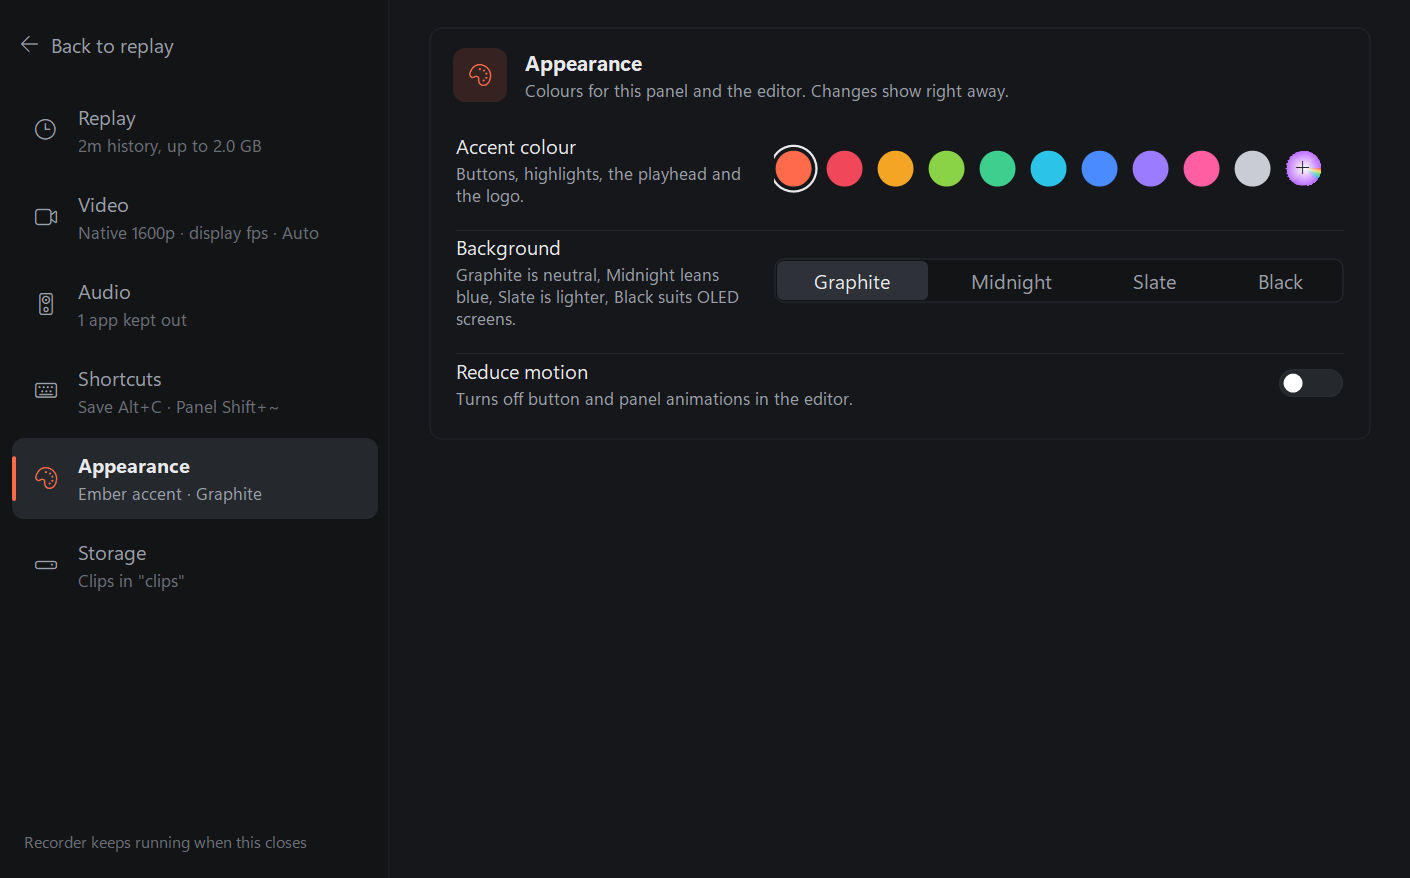
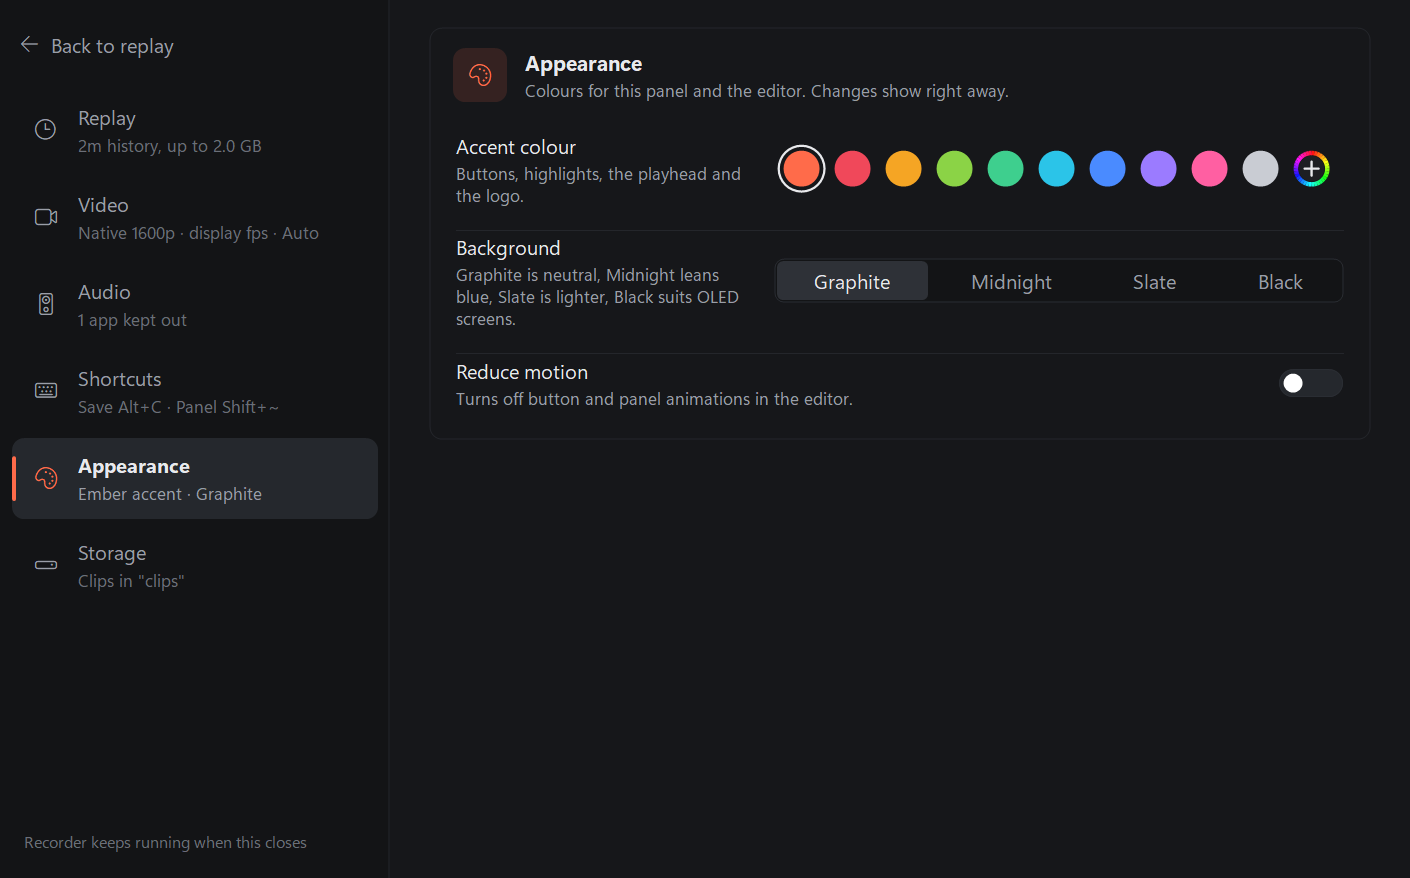
1.0.0 packaging: Windows installer and portable zip, Linux tar.gz and deb; Linux display/size and portable editor data fixes

Changed region(s): [[0.5305, 0.1538, 0.9674, 0.2153]]

diff --git a/src/ZenithClipper.Windows/Ui/Widgets.cs b/src/ZenithClipper.Windows/Ui/Widgets.cs
@@ -719,15 +719,17 @@ sealed class AccentSwatches : ZControl, IMeasured
     int Gap => Theme.S(8);
     List<Rectangle> Compute(int width)
     {
-        var list = new List<Rectangle>(); int x = 0, y = Theme.S(4);
+        // Inset by the selection ring's width so the ring around the first swatch is never clipped.
+        int inset = Theme.S(5);
+        var list = new List<Rectangle>(); int x = inset, y = inset;
         for (int i = 0; i < Count; i++)
         {
-            if (x > 0 && x + D > width) { x = 0; y += D + Gap; }
+            if (x > inset && x + D + inset > width) { x = inset; y += D + Gap; }
             list.Add(new Rectangle(x, y, D, D)); x += D + Gap;
         }
         return list;
     }
-    public int MeasureHeight(int width) => Compute(width).Max(b => b.Bottom) + Theme.S(4);
+    public int MeasureHeight(int width) => Compute(width).Max(b => b.Bottom) + Theme.S(5);
     protected override void OnResize(EventArgs e) { base.OnResize(e); boxes.Clear(); boxes.AddRange(Compute(Width)); }
     bool IsCustom => Appearance.AccentPresets.All(p => !p.Hex.Equals(selected, StringComparison.OrdinalIgnoreCase));
     protected override void OnMouseMove(MouseEventArgs e) { base.OnMouseMove(e); int h = boxes.FindIndex(b => b.Contains(e.Location)); if (h != hover) { hover = h; Invalidate(); } }
@@ -740,6 +742,12 @@ sealed class AccentSwatches : ZControl, IMeasured
         if (dialog.ShowDialog(FindForm()) == DialogResult.OK) Pick($"#{dialog.Color.R:X2}{dialog.Color.G:X2}{dialog.Color.B:X2}");
     }
     void Pick(string hex) { SetSelected(hex); Picked?.Invoke(selected); }
+    static (int R, int G, int B) Hue(double degrees)
+    {
+        double h = degrees / 60, x = 1 - Math.Abs(h % 2 - 1);
+        (double r, double g, double b) = (int)h switch { 0 => (1d, x, 0d), 1 => (x, 1d, 0d), 2 => (0d, 1d, x), 3 => (0d, x, 1d), 4 => (x, 0d, 1d), _ => (1d, 0d, x) };
+        return ((int)(r * 235 + 20), (int)(g * 235 + 20), (int)(b * 235 + 20));
+    }
     protected override void Draw(Graphics g)
     {
         if (boxes.Count != Count) { boxes.Clear(); boxes.AddRange(Compute(Width)); }
@@ -752,14 +760,25 @@ sealed class AccentSwatches : ZControl, IMeasured
             var inner = RectangleF.Inflate(b, -Theme.S(1f), -Theme.S(1f));
             if (custom)
             {
-                if (IsCustom && Appearance.TryParse(selected, out var c)) using (var fill = new SolidBrush(Color.FromArgb(c.R, c.G, c.B))) g.FillEllipse(fill, inner);
+                // Custom: a thin hue ring around a dark centre with a plus, or the chosen colour once one is picked.
+                if (IsCustom && Appearance.TryParse(selected, out var c)) { using var fill = new SolidBrush(Color.FromArgb(c.R, c.G, c.B)); g.FillEllipse(fill, inner); }
                 else
                 {
-                    using var path = new GraphicsPath(); path.AddEllipse(inner);
-                    using var rainbow = new PathGradientBrush(path) { CenterColor = Color.White, SurroundColors = [Color.FromArgb(255, 90, 90), Color.FromArgb(255, 210, 80), Color.FromArgb(90, 220, 130), Color.FromArgb(80, 170, 255), Color.FromArgb(190, 110, 255)] };
-                    g.FillEllipse(rainbow, inner);
+                    for (int k = 0; k < 36; k++)
+                    {
+                        var (r, gg, bb) = Hue(k * 10);
+                        using var pen = new Pen(Color.FromArgb(r, gg, bb), Theme.S(3f));
+                        g.DrawArc(pen, RectangleF.Inflate(inner, -Theme.S(1.5f), -Theme.S(1.5f)), k * 10 - 90, 10.5f);
+                    }
+                    using var centre = new SolidBrush(Theme.Raised);
+                    g.FillEllipse(centre, RectangleF.Inflate(inner, -Theme.S(3.5f), -Theme.S(3.5f)));
                 }
-                Theme.Glyph(g, Glyphs.Add, 8f, IsCustom ? Theme.Ink : Color.FromArgb(40, 40, 40), Rectangle.Round(b));
+                var plus = RectangleF.Inflate(b, -b.Width * .32f, -b.Height * .32f);
+                using (var pen = new Pen(IsCustom ? Theme.Ink : Theme.Text, Theme.S(1.6f)) { StartCap = LineCap.Round, EndCap = LineCap.Round })
+                {
+                    g.DrawLine(pen, plus.Left, plus.Top + plus.Height / 2, plus.Right, plus.Top + plus.Height / 2);
+                    g.DrawLine(pen, plus.Left + plus.Width / 2, plus.Top, plus.Left + plus.Width / 2, plus.Bottom);
+                }
                 continue;
             }
             Appearance.TryParse(Appearance.AccentPresets[i].Hex, out var rgb);

diff --git a/src/ZenithClipper.Core/Settings.cs b/src/ZenithClipper.Core/Settings.cs
@@ -22,8 +22,10 @@ public sealed record Settings
     public bool NeedsPerAppAudio => ExcludedApps.Length > 0 || AppVolumes.Values.Any(v => v != 100);
     public string ClipDirectory { get; init; } = Path.Combine(AppPaths.Root, "clips");
     public string FfmpegPath { get; init; } = "";
-    public string LinuxDisplay { get; init; } = ":0.0";
-    public string LinuxVideoSize { get; init; } = "1920x1080";
+    /// <summary>X display to record; empty follows $DISPLAY (falls back to :0).</summary>
+    public string LinuxDisplay { get; init; } = "";
+    /// <summary>"auto" records the whole screen at its real size; or a fixed WIDTHxHEIGHT region from the top-left.</summary>
+    public string LinuxVideoSize { get; init; } = "auto";
     public string LinuxRenderNode { get; init; } = "/dev/dri/renderD128";
     public string ClipHotkey { get; init; } = "Alt+C";
     public string PanelHotkey { get; init; } = "Shift+~";
@@ -41,7 +43,7 @@ public sealed record Settings
         if (string.IsNullOrWhiteSpace(ClipDirectory)) throw new ArgumentException("Choose a clip directory.");
         if (AppVolumes is null || AppVolumes.Count > 64 || AppVolumes.Any(x => string.IsNullOrWhiteSpace(x.Key) || x.Key.Length > 128 || x.Value is < 0 or > 200)) throw new ArgumentException("App volumes must be 0–200% for at most 64 apps.");
         if (ExcludedApps is null || ExcludedApps.Length > 64 || ExcludedApps.Any(x => string.IsNullOrWhiteSpace(x) || x.Length > 128)) throw new ArgumentException("Invalid excluded app list.");
-        if (!System.Text.RegularExpressions.Regex.IsMatch(LinuxVideoSize, @"^\d{2,5}x\d{2,5}$")) throw new ArgumentException("Linux video size must look like 1920x1080.");
+        if (LinuxVideoSize != "auto" && !System.Text.RegularExpressions.Regex.IsMatch(LinuxVideoSize, @"^\d{2,5}x\d{2,5}$")) throw new ArgumentException("Linux video size must be auto or look like 1920x1080.");
         HotkeySpec.Parse(ClipHotkey); HotkeySpec.Parse(PanelHotkey);
         if (HotkeySpec.Parse(ClipHotkey) == HotkeySpec.Parse(PanelHotkey)) throw new ArgumentException("Hotkeys must differ.");
     }
@@ -65,7 +67,15 @@ public static class SettingsChanges
 
 public static class AppPaths
 {
-    public static string Root => Environment.GetEnvironmentVariable("ZENITHCLIPPER_HOME") ?? (File.Exists(Path.Combine(AppContext.BaseDirectory,"portable.flag")) ? Path.Combine(AppContext.BaseDirectory,"data") : Path.Combine(Environment.GetFolderPath(Environment.SpecialFolder.LocalApplicationData), "ZenithClipper"));
+    public static string Root => Environment.GetEnvironmentVariable("ZENITHCLIPPER_HOME") ?? PortableRoot() ?? Path.Combine(Environment.GetFolderPath(Environment.SpecialFolder.LocalApplicationData), "ZenithClipper");
+    /// <summary>Portable copies keep data beside the app. The editor lives in a sibling folder (editor\ next to windows\),
+    /// so it follows the app's portable.flag too; otherwise panel and editor would read different settings.</summary>
+    static string? PortableRoot()
+    {
+        foreach (var dir in new[] { AppContext.BaseDirectory, Path.Combine(AppContext.BaseDirectory, "..", "windows"), Path.Combine(AppContext.BaseDirectory, "..", "app") })
+            if (File.Exists(Path.Combine(dir, "portable.flag"))) return Path.GetFullPath(Path.Combine(dir, "data"));
+        return null;
+    }
     public static string Config => Path.Combine(Root, "settings.json");
     public static string Buffer => Path.Combine(Root, "buffer");
     public static JsonSerializerOptions Json { get; } = CoreJsonContext.CreateApplicationOptions();

diff --git a/src/ZenithClipper.Core/CaptureCommand.cs b/src/ZenithClipper.Core/CaptureCommand.cs
@@ -24,7 +24,15 @@ public static class CaptureCommand
         if(amfNative&&!amfGraph)args.AddRange(["-f","lavfi","-i",$"vsrc_amf=monitor_index={s.Monitor}:framerate={fps}"]);
         else if (!amfGraph && platform == "windows") args.AddRange(["-f", "lavfi", "-i", $"ddagrab=output_idx={s.Monitor}:framerate={fps}:draw_mouse=1"]);
         else if (!amfGraph && wayland) args.AddRange(["-thread_queue_size", "64", "-f", "matroska", "-i", "pipe:0"]);
-        else if (!amfGraph) args.AddRange(["-thread_queue_size", "64", "-f", "x11grab", "-framerate", $"{fps}", "-video_size", s.LinuxVideoSize, "-i", s.LinuxDisplay]);
+        else if (!amfGraph)
+        {
+            // Follow the session's display (many distros run the desktop on :1) and, by default, record the whole screen
+            // at whatever size it is; x11grab sizes itself to the screen when no -video_size is given.
+            string display = string.IsNullOrWhiteSpace(s.LinuxDisplay) ? Environment.GetEnvironmentVariable("DISPLAY") is { Length: > 0 } d ? d : ":0" : s.LinuxDisplay;
+            args.AddRange(["-thread_queue_size", "64", "-f", "x11grab", "-framerate", $"{fps}"]);
+            if (s.LinuxVideoSize != "auto") args.AddRange(["-video_size", s.LinuxVideoSize]);
+            args.AddRange(["-i", display]);
+        }
         foreach (var audioSource in audioSources)
         {
             args.AddRange(["-thread_queue_size", "128"]);

diff --git a/docs/release-notes/v1.0.0.md b/docs/release-notes/v1.0.0.md
@@ -1,0 +1,28 @@
+## ZenithClipper 1.0.0
+
+First public release. ZenithClipper keeps the last minutes of your screen in a rolling buffer and saves a clip when you press a hotkey, with a full clip editor built in.
+
+### Downloads
+
+| File | For |
+| --- | --- |
+| `ZenithClipper_1.0.0_x64-setup.exe` | **Windows 10/11, recommended.** Installs per user (no admin prompt), adds Start menu shortcuts, optional start with Windows. |
+| `ZenithClipper_1.0.0_x64-portable.zip` | Windows, no install. Unzip anywhere and run `ZenithClipper.cmd`. Settings and clips stay in the folder. |
+| `zenithclipper_1.0.0_amd64.deb` | Ubuntu, Debian and derivatives: `sudo apt install ./zenithclipper_1.0.0_amd64.deb` |
+| `zenithclipper-1.0.0-linux-x64.tar.gz` | Other Linux distributions. Needs `ffmpeg`, `zenity`, `pactl` and `libmlt7` from your package manager. |
+| `SHA256SUMS` | Checksums for every file above. |
+
+Nothing else to install on Windows: .NET, FFmpeg and the editor's video engine are bundled.
+
+### Highlights
+
+- **Instant replay:** up to hours of history on disk, saved with one hotkey (Alt+C by default). Hardware encoding on NVIDIA (native capture, no CPU copies), AMD and Intel. It never silently falls back to CPU encoding.
+- **Per-app audio:** choose which apps clips hear, e.g. keep Discord or Spotify out.
+- **Clip editor:** timeline with drag and drop, trim, split (Ctrl+K), undo/redo, titles, captions, effects, keyframes and colour.
+- **Imports:** MP4, MOV, MKV, WebM, AVI, MP3, WAV, FLAC, OGG, PNG, JPG, GIF, WebP, PSD and more.
+- **Exports:** MP4 (H.264, H.265, AV1, NVENC), MOV, MKV, WebM, animated GIF, MP3, WAV, M4A and FLAC, plus Discord and YouTube presets.
+- **Appearance:** pick an accent colour and background; the panel and editor update live.
+
+### Linux status
+
+X11 recording and the editor work, and both were tested on Linux (recording on a virtual X11 display, not a physical desktop). Wayland capture through the screen-sharing portal is included but experimental. The control panel on Linux uses simple dialogs rather than the Windows panel.

diff --git a/README.md b/README.md
@@ -14,9 +14,13 @@ A local replay recorder with a small background engine, an on-demand control pan
 
 ## Download
 
-Grab `ZenithClipper-windows-x64.zip` from the latest GitHub release, unzip it anywhere and run `ZenithClipper.Windows.exe`. Needs Windows 10 or 11 (x64) and the .NET 10 Desktop Runtime. NVIDIA, AMD and Intel GPUs get hardware encoding; it never silently falls back to CPU encoding.
+Get the latest version from [Releases](https://github.com/glitchthekillah/ZenithClipper/releases/latest):
 
-Colours live under Settings > Appearance and apply to the panel and the editor.
+- **Windows 10/11:** `ZenithClipper_<version>_x64-setup.exe` (installer) or `ZenithClipper_<version>_x64-portable.zip` (no install). Everything is bundled, including .NET and FFmpeg.
+- **Ubuntu/Debian:** `zenithclipper_<version>_amd64.deb`, installed with `sudo apt install ./zenithclipper_<version>_amd64.deb`.
+- **Other Linux:** `zenithclipper-<version>-linux-x64.tar.gz`. Needs `ffmpeg`, `zenity`, `pactl` and `libmlt7`.
+
+Hardware encoding on NVIDIA, AMD and Intel GPUs; it never silently falls back to CPU encoding. Colours live under Settings > Appearance and apply to the panel and the editor.
 
 ## Start on Windows
 
